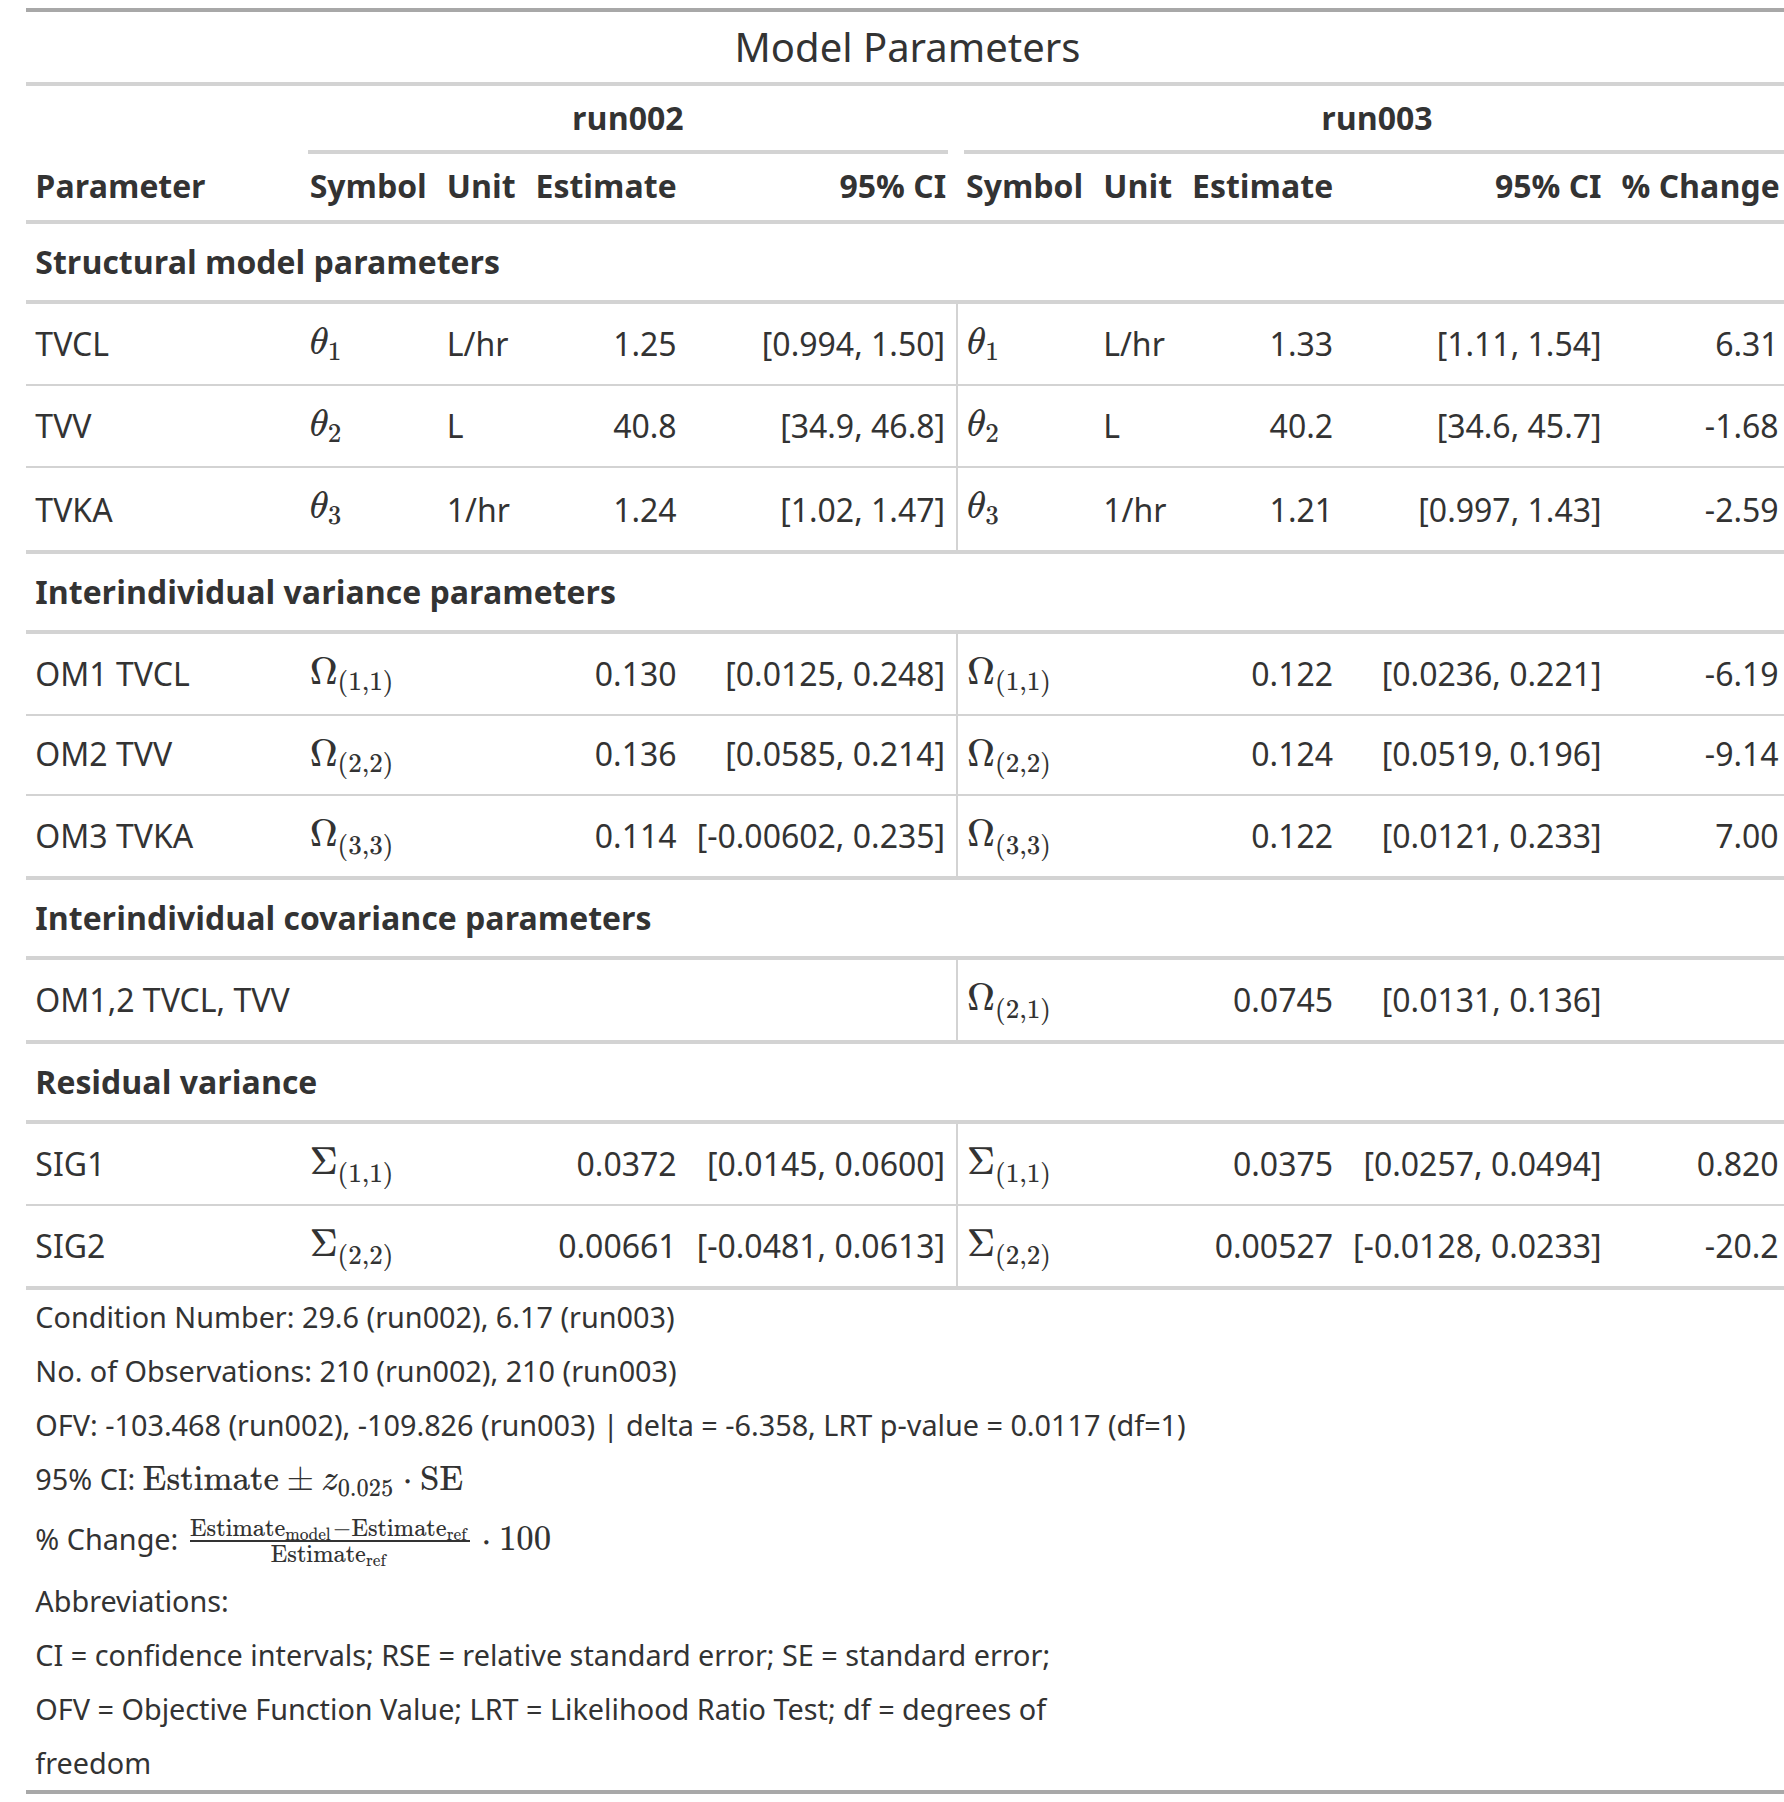
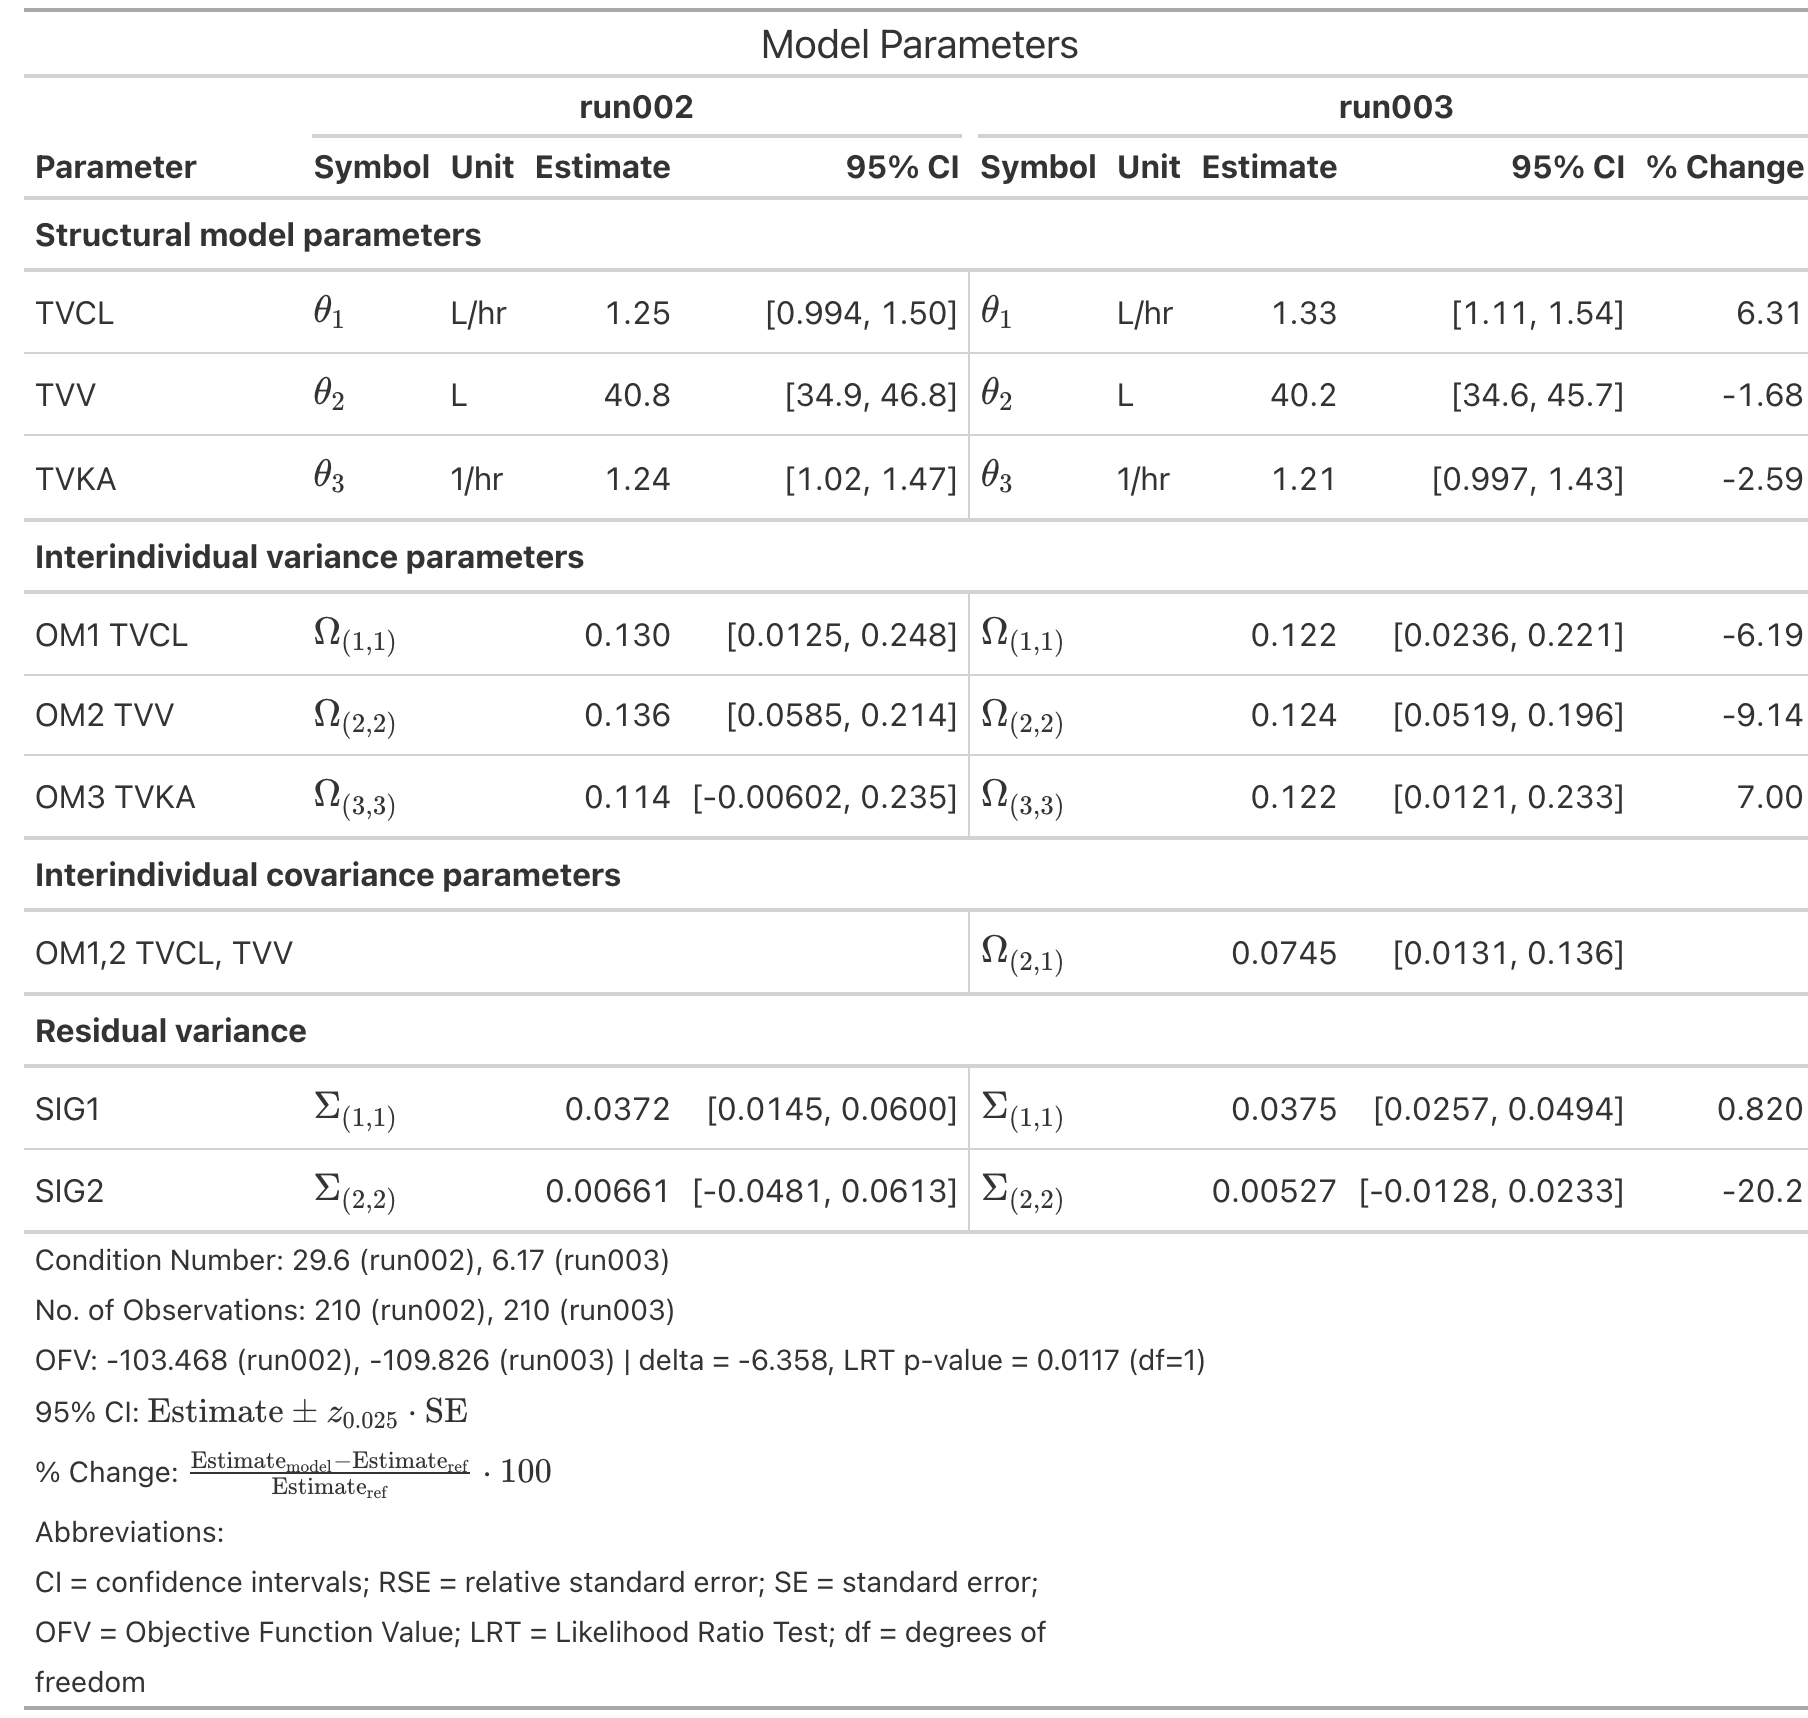
docs update

Changed region(s): [[0.0, 0.0, 1.0, 0.9872]]

diff --git a/README.md b/README.md
@@ -60,13 +60,14 @@ params <- get_parameters(model)
 info <- get_model_parameter_info(model)
 mod_sum <- summary(model)
 
-param_gt <- params |>
+params |>
   apply_table_spec(spec, info) |>
   add_summary_info(mod_sum) |>
-  make_parameter_table()
+  make_parameter_table() |>
+  render_to_image()
 ```
 
-![](man/figures/README-param-table.png)
+<img src="man/figures/README-parameter-table-1.png" alt="" width="100%" />
 
 ### Comparison table
 
@@ -88,7 +89,7 @@ spec <- TableSpec(
 run002 <- read_model(file.path(model_dir, "run002.mod"))
 run003 <- read_model(file.path(model_dir, "run003.mod"))
 
-comp_gt <- get_parameters(run002) |>
+get_parameters(run002) |>
   apply_table_spec(spec, get_model_parameter_info(run002)) |>
   add_summary_info(summary(run002)) |>
   compare_with(
@@ -98,10 +99,11 @@ comp_gt <- get_parameters(run002) |>
     labels = c("run002", "run003")
   ) |>
   add_model_lineage(get_model_lineage(run002)) |>
-  make_comparison_table()
+  make_comparison_table() |>
+  render_to_image()
 ```
 
-![](man/figures/README-comparison-table.png)
+<img src="man/figures/README-comparison-table-1.png" alt="" width="100%" />
 
 ### Summary table
 
@@ -109,12 +111,13 @@ comp_gt <- get_parameters(run002) |>
 model_dir <- system.file("extdata", "models", "onecmt", package = "hyperion.tables")
 tree <- get_model_lineage(model_dir)
 
-summary_gt <- tree |>
+tree |>
   apply_summary_spec(SummarySpec()) |>
-  make_summary_table()
+  make_summary_table() |>
+  render_to_image()
 ```
 
-![](man/figures/README-summary-table.png)
+<img src="man/figures/README-summary-table-1.png" alt="" width="100%" />
 
 ### Custom renderers
 
